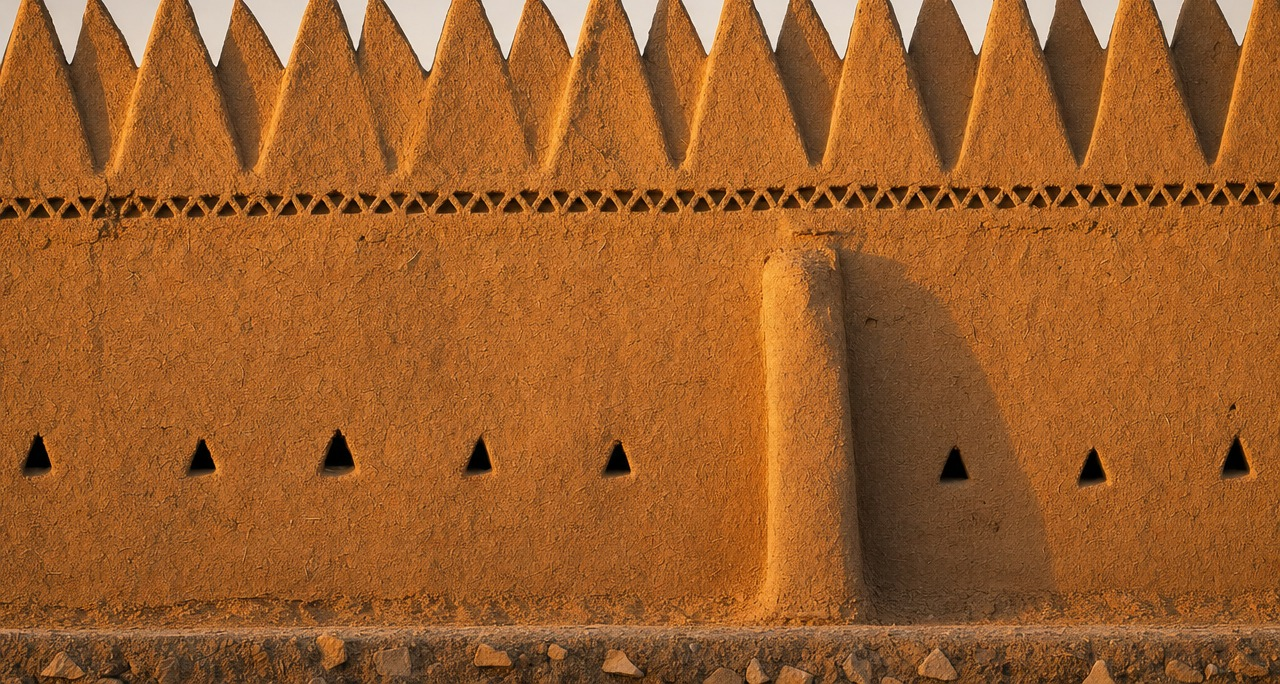
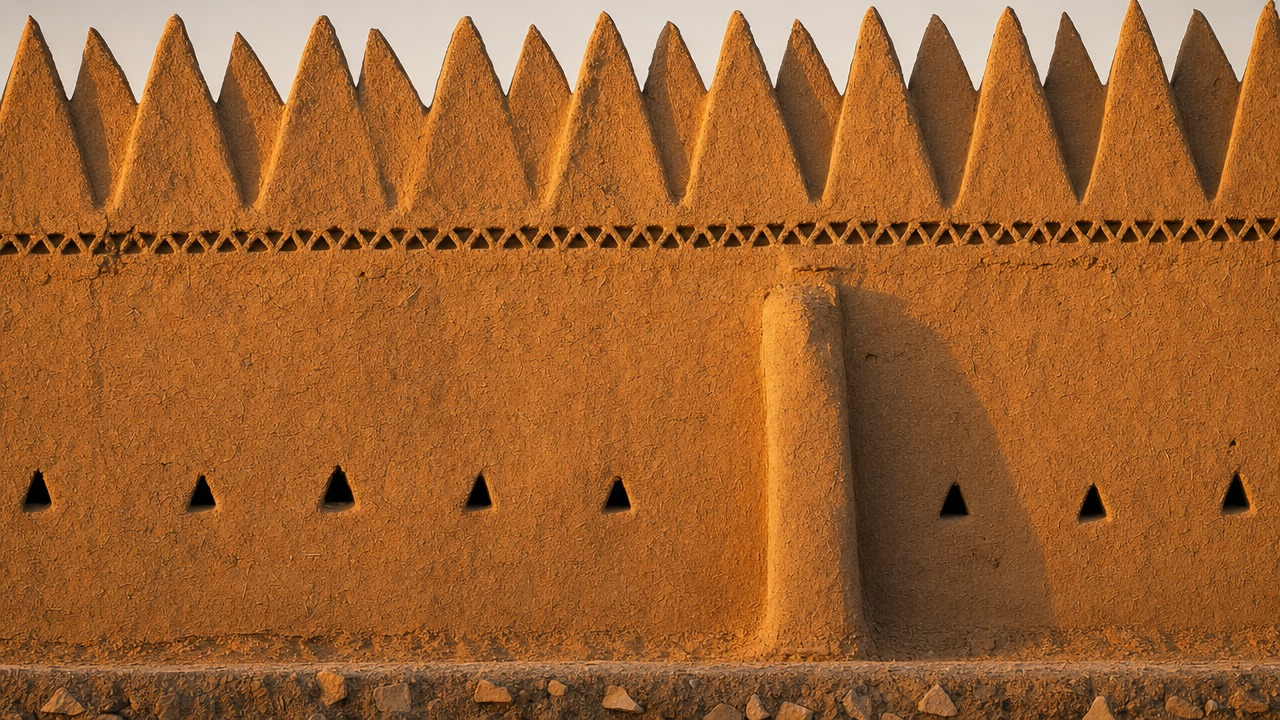
Three defects the reader could see, fixed where they start
1. The card numerals were not cropped — the face draws ١٢٣ with flat tops, and at 26pt they read as
   beheaded letters. Verified against the font itself with Pillow, then replaced with the cover's diamond
   ornament, so nothing can be misread. The page also gained the three 'كتاب' specimens and a closing
   paragraph instead of a half-empty sheet.

2. The alphabet was a run of isolated letters with nothing between them, so they joined into words.
   Each letter now sits in its own cell, and the digits have their own row: shapes are read one by one.

3. The cover wall was cropping the crenellations. The band now starts at the image's own top and the sky
   gradient reaches the image's exact strip colour at 56%, so the join is invisible and every rooftop
   is whole.

Also removed a vocalised basmala: measured, this face does not place the marks, and a sacred line is not
the place to show a known defect.

Measured: 11 pages, 43 links, PDF/A-3b zero veraPDF failures, ALL GATES PASSED.

diff --git a/najd.html b/najd.html
@@ -41,16 +41,21 @@ h1.page-t{ font-size:21pt; font-weight:700; color:var(--primary); margin:0 0 4mm
 .toc-row .p{ font-size:11pt; font-weight:700; color:var(--primary); background:rgba(168,95,46,.08); border-radius:1.6mm; padding:0.6mm 2.8mm 1.2mm; }
 .cards3{ display:grid; grid-template-columns:1fr 1fr 1fr; gap:6mm; margin:3mm 0 9mm; }
 .cards2{ display:grid; grid-template-columns:1fr 1fr; gap:6mm; margin:3mm 0 7mm; }
-.card{ background:var(--card); border:0.35mm solid var(--line); border-radius:3mm; padding:6mm 5.5mm; }
+.card{ background:var(--card); border:0.35mm solid var(--line); border-radius:3mm; padding:7mm 5.5mm; }
 .card .ttl{ font-size:12pt; font-weight:700; color:var(--primary); margin-bottom:2mm; }
 .card .tx{ font-size:10.5pt; line-height:1.85; color:var(--ink); }
-.card .big{ font-size:26pt; font-weight:900; color:var(--primary); line-height:1; }
+.dot{ height:9mm; display:flex; align-items:center; }
+.dot i{ display:block; width:4.6mm; height:4.6mm; background:var(--primary); transform:rotate(45deg); border-radius:.6mm; }
+.card .big{ font-size:26pt; font-weight:900; color:var(--primary); line-height:1.45; padding-top:1.5mm; }
 .card .cap{ font-size:10pt; color:var(--muted); margin-top:2.5mm; line-height:1.7; }
 .spec{ margin:0 0 6mm; }
 .spec .w{ font-size:9.5pt; font-weight:500; color:var(--muted); margin-bottom:0.5mm; }
 .spec .s{ font-size:34pt; line-height:1.35; color:var(--ink); }
 .spec .s.l300{ font-weight:300; } .spec .s.l400{ font-weight:400; } .spec .s.l500{ font-weight:500; }
 .spec .s.l700{ font-weight:700; } .spec .s.l900{ font-weight:900; }
+.alpha{ display:flex; flex-wrap:wrap; gap:1.6mm 1.6mm; direction:rtl; font-size:19pt; color:var(--ink); }
+.alpha .lt{ display:inline-flex; align-items:center; justify-content:center; min-width:8.2mm; height:11mm;
+  border:0.25mm solid var(--line); border-radius:1.6mm; background:var(--card); }
 .swatches{ display:grid; grid-template-columns:repeat(4,1fr); gap:4.5mm; margin:3mm 0 8mm; }
 .sw{ border-radius:2.5mm; border:0.3mm solid var(--line); overflow:hidden; }
 .sw .c{ height:22mm; }
@@ -60,6 +65,10 @@ h1.page-t{ font-size:21pt; font-weight:700; color:var(--primary); margin:0 0 4mm
 .chip{ font-size:10pt; font-weight:500; color:var(--primary); background:rgba(168,95,46,.07);
   border:0.3mm solid rgba(168,95,46,.22); border-radius:2mm; padding:1.6mm 3.4mm; }
 .chip.on{ background:var(--primary); color:#fff; border-color:var(--primary); }
+.triple{ display:grid; grid-template-columns:1fr 1fr 1fr; gap:6mm; margin:6mm 0 6mm; }
+.tri{ background:var(--card); border:0.3mm solid var(--line); border-radius:3mm; padding:5mm 5mm 6mm; text-align:center; }
+.tri .w{ font-size:9pt; color:var(--muted); margin-bottom:3mm; }
+.tri .t{ font-size:30pt; font-weight:500; color:var(--ink); line-height:1.4; }
 .band{ margin-top:3mm; background:linear-gradient(135deg, rgba(168,95,46,.10), rgba(211,141,95,.12));
   border:0.35mm solid rgba(168,95,46,.26); border-radius:3mm; padding:6mm 6mm; font-size:11pt; line-height:1.95; }
 .band b{ color:var(--primary); }
@@ -69,10 +78,10 @@ h1.page-t{ font-size:21pt; font-weight:700; color:var(--primary); margin:0 0 4mm
 .ref-row .u{ font-size:9pt; color:var(--muted); direction:ltr; text-align:left; margin-top:1mm; }
 /* Cover — sky over the wall, as in the typeface's own poster */
 .cv{ position:absolute; inset:0; overflow:hidden;
-  background:linear-gradient(180deg,#b27860 0%,#c98a6d 18%,#dda079 38%,#eeb083 55%,#f8b57b 66%); }
-.cv .wall{ position:absolute; right:0; left:0; bottom:0; height:40%;
+  background:linear-gradient(180deg,#b27860 0%,#c98a6d 18%,#dda079 38%,#eeb083 50%,#f7bd95 53%,#fbf1e2 56%); }
+.cv .wall{ position:absolute; right:0; left:0; bottom:0; height:44%;
   background-image:url("{{ART_NAJD_COVER}}"); background-size:cover; background-position:center top; }
-.cv .veil{ position:absolute; right:0; left:0; bottom:0; height:40%;
+.cv .veil{ position:absolute; right:0; left:0; bottom:0; height:44%;
   background:linear-gradient(180deg, rgba(248,181,123,.75) 0%, rgba(248,181,123,.0) 14%); }
 .cv .brand{ position:absolute; top:15mm; left:18mm; font-size:9pt; letter-spacing:.34em; color:#3a2412;
   font-weight:500; direction:ltr; }
@@ -156,11 +165,11 @@ h1.page-t{ font-size:21pt; font-weight:700; color:var(--primary); margin:0 0 4mm
     <div class="eyebrow">القسم الثاني</div>
     <h1 class="page-t">الحروف والبدائل</h1>
     <p class="lead">الخط يحمل أشكال العربية الأربعة، ولام ألف بأنواعها، وخمس مجموعات بدائل. الأسطر التالية تُظهر الفرق بين الحرف المجرّد والميزة المفعّلة.</p>
-    <div class="spec"><div class="w">الأبجدية</div><div class="s l400" style="font-size:20pt">ابتثجحخدذرزسشصضطظعغفقكلمنهويءةلا ٠١٢٣٤٥٦٧٨٩ </div></div>
+    <div class="spec"><div class="w">أشكال الحروف منفردة، والأرقام</div><div class="alpha l400"><span class="lt">ا</span><span class="lt">ب</span><span class="lt">ت</span><span class="lt">ث</span><span class="lt">ج</span><span class="lt">ح</span><span class="lt">خ</span><span class="lt">د</span><span class="lt">ذ</span><span class="lt">ر</span><span class="lt">ز</span><span class="lt">س</span><span class="lt">ش</span><span class="lt">ص</span><span class="lt">ض</span><span class="lt">ط</span><span class="lt">ظ</span><span class="lt">ع</span><span class="lt">غ</span><span class="lt">ف</span><span class="lt">ق</span><span class="lt">ك</span><span class="lt">ل</span><span class="lt">م</span><span class="lt">ن</span><span class="lt">ه</span><span class="lt">و</span><span class="lt">ي</span><span class="lt">ء</span><span class="lt">ة</span><span class="lt">لا</span></div><div class="alpha l400" style="margin-top:2mm"><span class="lt">٠</span><span class="lt">١</span><span class="lt">٢</span><span class="lt">٣</span><span class="lt">٤</span><span class="lt">٥</span><span class="lt">٦</span><span class="lt">٧</span><span class="lt">٨</span><span class="lt">٩</span></div></div>
     <div class="spec"><div class="w">الكاف — الشكل الأصل</div><div class="s l500" style="font-size:30pt">كتاب</div></div>
     <div class="spec"><div class="w">الكاف الممدودة — <span style="direction:ltr;display:inline-block">ss02</span></div><div class="s l500" style="font-size:30pt;font-feature-settings:'ss02' 1">كتاب</div></div>
     <div class="spec"><div class="w">طين ناعم — <span style="direction:ltr;display:inline-block">ss03</span></div><div class="s l500" style="font-size:30pt;font-feature-settings:'ss03' 1">كتاب</div></div>
-    <div class="spec"><div class="w">التشكيل الكامل</div><div class="s l400" style="font-size:24pt">بِسْمِ ٱللَّهِ ٱلرَّحْمَٰنِ ٱلرَّحِيمِ</div></div>
+    
     <div class="band">الكاف الذكية: إذا كتبت <b>كشيدة</b> بعد الكاف امتدّ ذراعها على السطر. هذه ميزة تشكيل داخل الخط، لا صورة ولا حيلة تنسيق.</div>
     <div class="foot"><span>نجد · الحروف</span><span class="num">٤</span></div>
   </div>
@@ -195,11 +204,17 @@ h1.page-t{ font-size:21pt; font-weight:700; color:var(--primary); margin:0 0 4mm
     <h1 class="page-t">من الطين إلى الحرف</h1>
     <p class="lead">ثلاث روح في خط واحد، كما يصفها ملف الخط نفسه.</p>
     <div class="cards3">
-      <div class="card"><div class="big">١</div><div class="ttl" style="margin-top:4mm">الأصل</div><div class="tx">رؤوس الحروف القائمة مدبّبة مثل شرفات بيوت الطين، وباقي النهايات مشطوفة مثل حافة الطوب، والفتحات مربّعة مثل النوافذ النجدية.</div></div>
-      <div class="card"><div class="big">٢</div><div class="ttl" style="margin-top:4mm">كاف ممدودة</div><div class="tx">ذراع الكاف أطول على السطر، ومع الكشيدة يمتدّ على طولها. بديل واحد يغيّر إيقاع السطر كله.</div></div>
-      <div class="card"><div class="big">٣</div><div class="ttl" style="margin-top:4mm">طين ناعم</div><div class="tx">نهايات وزوايا ونقاط مدوّرة، وفتحات دائرية: الروح المقابلة للأصل، تُختار واحدة منهما لا الاثنتان.</div></div>
+      <div class="card"><div class="dot"><i></i></div><div class="ttl" style="margin-top:4mm">الأصل</div><div class="tx">رؤوس الحروف القائمة مدبّبة مثل شرفات بيوت الطين، وباقي النهايات مشطوفة مثل حافة الطوب، والفتحات مربّعة مثل النوافذ النجدية.</div></div>
+      <div class="card"><div class="dot"><i></i></div><div class="ttl" style="margin-top:4mm">كاف ممدودة</div><div class="tx">ذراع الكاف أطول على السطر، ومع الكشيدة يمتدّ على طولها. بديل واحد يغيّر إيقاع السطر كله.</div></div>
+      <div class="card"><div class="dot"><i></i></div><div class="ttl" style="margin-top:4mm">طين ناعم</div><div class="tx">نهايات وزوايا ونقاط مدوّرة، وفتحات دائرية: الروح المقابلة للأصل، تُختار واحدة منهما لا الاثنتان.</div></div>
     </div>
-    <div class="band">الخط ليس زخرفة فوق النص؛ قرارات البناء — الوزن، والبديل، وحجم الكاف — هي التي تصنع الصفحة. هذا المستند يستخدم <b>الأصل</b> في المتن و<b>الكاف الممدودة</b> في العرض.</div>
+    <div class="triple">
+      <div class="tri"><div class="w">الأصل</div><div class="t">كتاب</div></div>
+      <div class="tri"><div class="w">كاف ممدودة — <span dir="ltr" style="unicode-bidi:isolate">ss02</span></div><div class="t" style="font-feature-settings:'ss02' 1">كتاب</div></div>
+      <div class="tri"><div class="w">طين ناعم — <span dir="ltr" style="unicode-bidi:isolate">ss03</span></div><div class="t" style="font-feature-settings:'ss03' 1">كتاب</div></div>
+    </div>
+    <p class="lead" style="margin:6mm 0 5mm">البدائل لا تُغيّر الحرف نفسه، بل إيقاع السطر: ذراع أطول على السطر، ونهاية مستديرة تُهدّئ الزاوية، وعرضٌ يكفي لملء السطر بلا كشيدة مصطنعة. المستند يستخدم الأصل في المتن، والكاف الممدودة في العناوين.</p>
+    <div class="band">الخط ليس زخرفة فوق النص؛ قرارات البناء — الوزن، والبديل، وحجم الكاف — هي التي تصنع الصفحة. ولهذا يحمل هذا المستند قرارًا واحدًا صريحًا بدل خلط البدائل في صفحة واحدة.</div>
     <div class="foot"><span>نجد · الروح</span><span class="num">٦</span></div>
   </div>
 </div>

diff --git a/najd_spec.py b/najd_spec.py
@@ -103,26 +103,26 @@ EXPECTED = {"pages": PAGES, "nav_pages": len(NAV_PAGES), "source_strips": len(NA
 
 # >>> CALIBRATED PAGE_INK
 PAGE_INK = {
-    0: (0.1225, (0.003, 0.0389, 0.0498, 0.0025, 0.0, 0.102, 0.1007, 0.0, 0.0593, 0.0343, 0.0561, 0.0751, 0.3155, 0.2905, 0.4457, 0.3822)),
+    0: (0.1551, (0.0029, 0.0387, 0.0497, 0.0025, 0.0, 0.1016, 0.1004, 0.0, 0.2042, 0.1898, 0.2298, 0.2321, 0.293, 0.2621, 0.4135, 0.3599)),
     1: (0.0072, (0.0006, 0.0167, 0.0232, 0.0053, 0.0023, 0.0, 0.0216, 0.0198, 0.0011, 0.0, 0.0125, 0.0088, 0.0018, 0.0, 0.0, 0.0018)),
     2: (0.0314, (0.0127, 0.0324, 0.0377, 0.039, 0.0, 0.0281, 0.0736, 0.0619, 0.0052, 0.0727, 0.0847, 0.052, 0.0003, 0.0, 0.0, 0.0016)),
-    3: (0.0198, (0.0155, 0.019, 0.0348, 0.039, 0.0033, 0.0198, 0.0244, 0.0615, 0.0056, 0.0117, 0.0306, 0.0498, 0.0003, 0.0, 0.0, 0.0016)),
-    4: (0.0961, (0.0588, 0.0845, 0.0963, 0.0344, 0.3128, 0.4589, 0.2041, 0.187, 0.0158, 0.0296, 0.0184, 0.0326, 0.0002, 0.0, 0.0, 0.0018)),
-    5: (0.0157, (0.0062, 0.0094, 0.0302, 0.0293, 0.0236, 0.0421, 0.0407, 0.0395, 0.0003, 0.0051, 0.016, 0.0068, 0.0003, 0.0, 0.0, 0.0014)),
+    3: (0.0175, (0.0155, 0.019, 0.0371, 0.0422, 0.0064, 0.0169, 0.0255, 0.0378, 0.0056, 0.0117, 0.0118, 0.0484, 0.0003, 0.0, 0.0, 0.0016)),
+    4: (0.0956, (0.0582, 0.0839, 0.0891, 0.0342, 0.3128, 0.4589, 0.2041, 0.187, 0.0146, 0.0266, 0.0184, 0.0372, 0.0002, 0.0, 0.0, 0.0018)),
+    5: (0.0252, (0.0062, 0.011, 0.0323, 0.0319, 0.0197, 0.0334, 0.0326, 0.0355, 0.0294, 0.0518, 0.0516, 0.0422, 0.0004, 0.0047, 0.0134, 0.0075)),
     6: (0.0176, (0.0108, 0.0186, 0.0261, 0.0298, 0.007, 0.0575, 0.0292, 0.0363, 0.006, 0.0258, 0.0141, 0.0185, 0.0003, 0.0, 0.0, 0.0015)),
     7: (0.0224, (0.0148, 0.0258, 0.0541, 0.0787, 0.0113, 0.0247, 0.0499, 0.056, 0.0053, 0.0121, 0.0112, 0.0122, 0.0003, 0.0, 0.0, 0.0017)),
     8: (0.0185, (0.0062, 0.0269, 0.0337, 0.032, 0.0185, 0.0545, 0.041, 0.0373, 0.0, 0.0, 0.022, 0.0225, 0.0003, 0.0, 0.0, 0.0015)),
     9: (0.0079, (0.0062, 0.0074, 0.0248, 0.0257, 0.0, 0.0, 0.0133, 0.0249, 0.0, 0.0012, 0.0092, 0.0115, 0.0002, 0.0, 0.0, 0.0017)),
-    10: (0.0095, (0.0, 0.0, 0.0, 0.0, 0.0, 0.0636, 0.0679, 0.0, 0.0, 0.0101, 0.0095, 0.0, 0.0, 0.0, 0.0, 0.0)),
+    10: (0.0092, (0.0, 0.0, 0.0, 0.0, 0.0, 0.0639, 0.0682, 0.0, 0.0, 0.0082, 0.007, 0.0, 0.0, 0.0, 0.0, 0.0)),
 }
 # <<< CALIBRATED PAGE_INK
 
 # >>> CALIBRATED PAGE_WORDS
-PAGE_WORDS = {0: 33, 1: 43, 2: 74, 3: 69, 4: 94, 5: 101, 6: 120, 7: 106, 8: 127, 9: 58, 10: 21}
+PAGE_WORDS = {0: 33, 1: 43, 2: 74, 3: 105, 4: 92, 5: 143, 6: 120, 7: 106, 8: 127, 9: 58, 10: 21}
 # <<< CALIBRATED PAGE_WORDS
 
 # >>> CALIBRATED IMAGE_PAGES
-IMAGE_PAGES = {0: (1, 0.4003)}
+IMAGE_PAGES = {0: (1, 0.4405)}
 # <<< CALIBRATED IMAGE_PAGES
 
 # >>> CALIBRATED FOOTER
